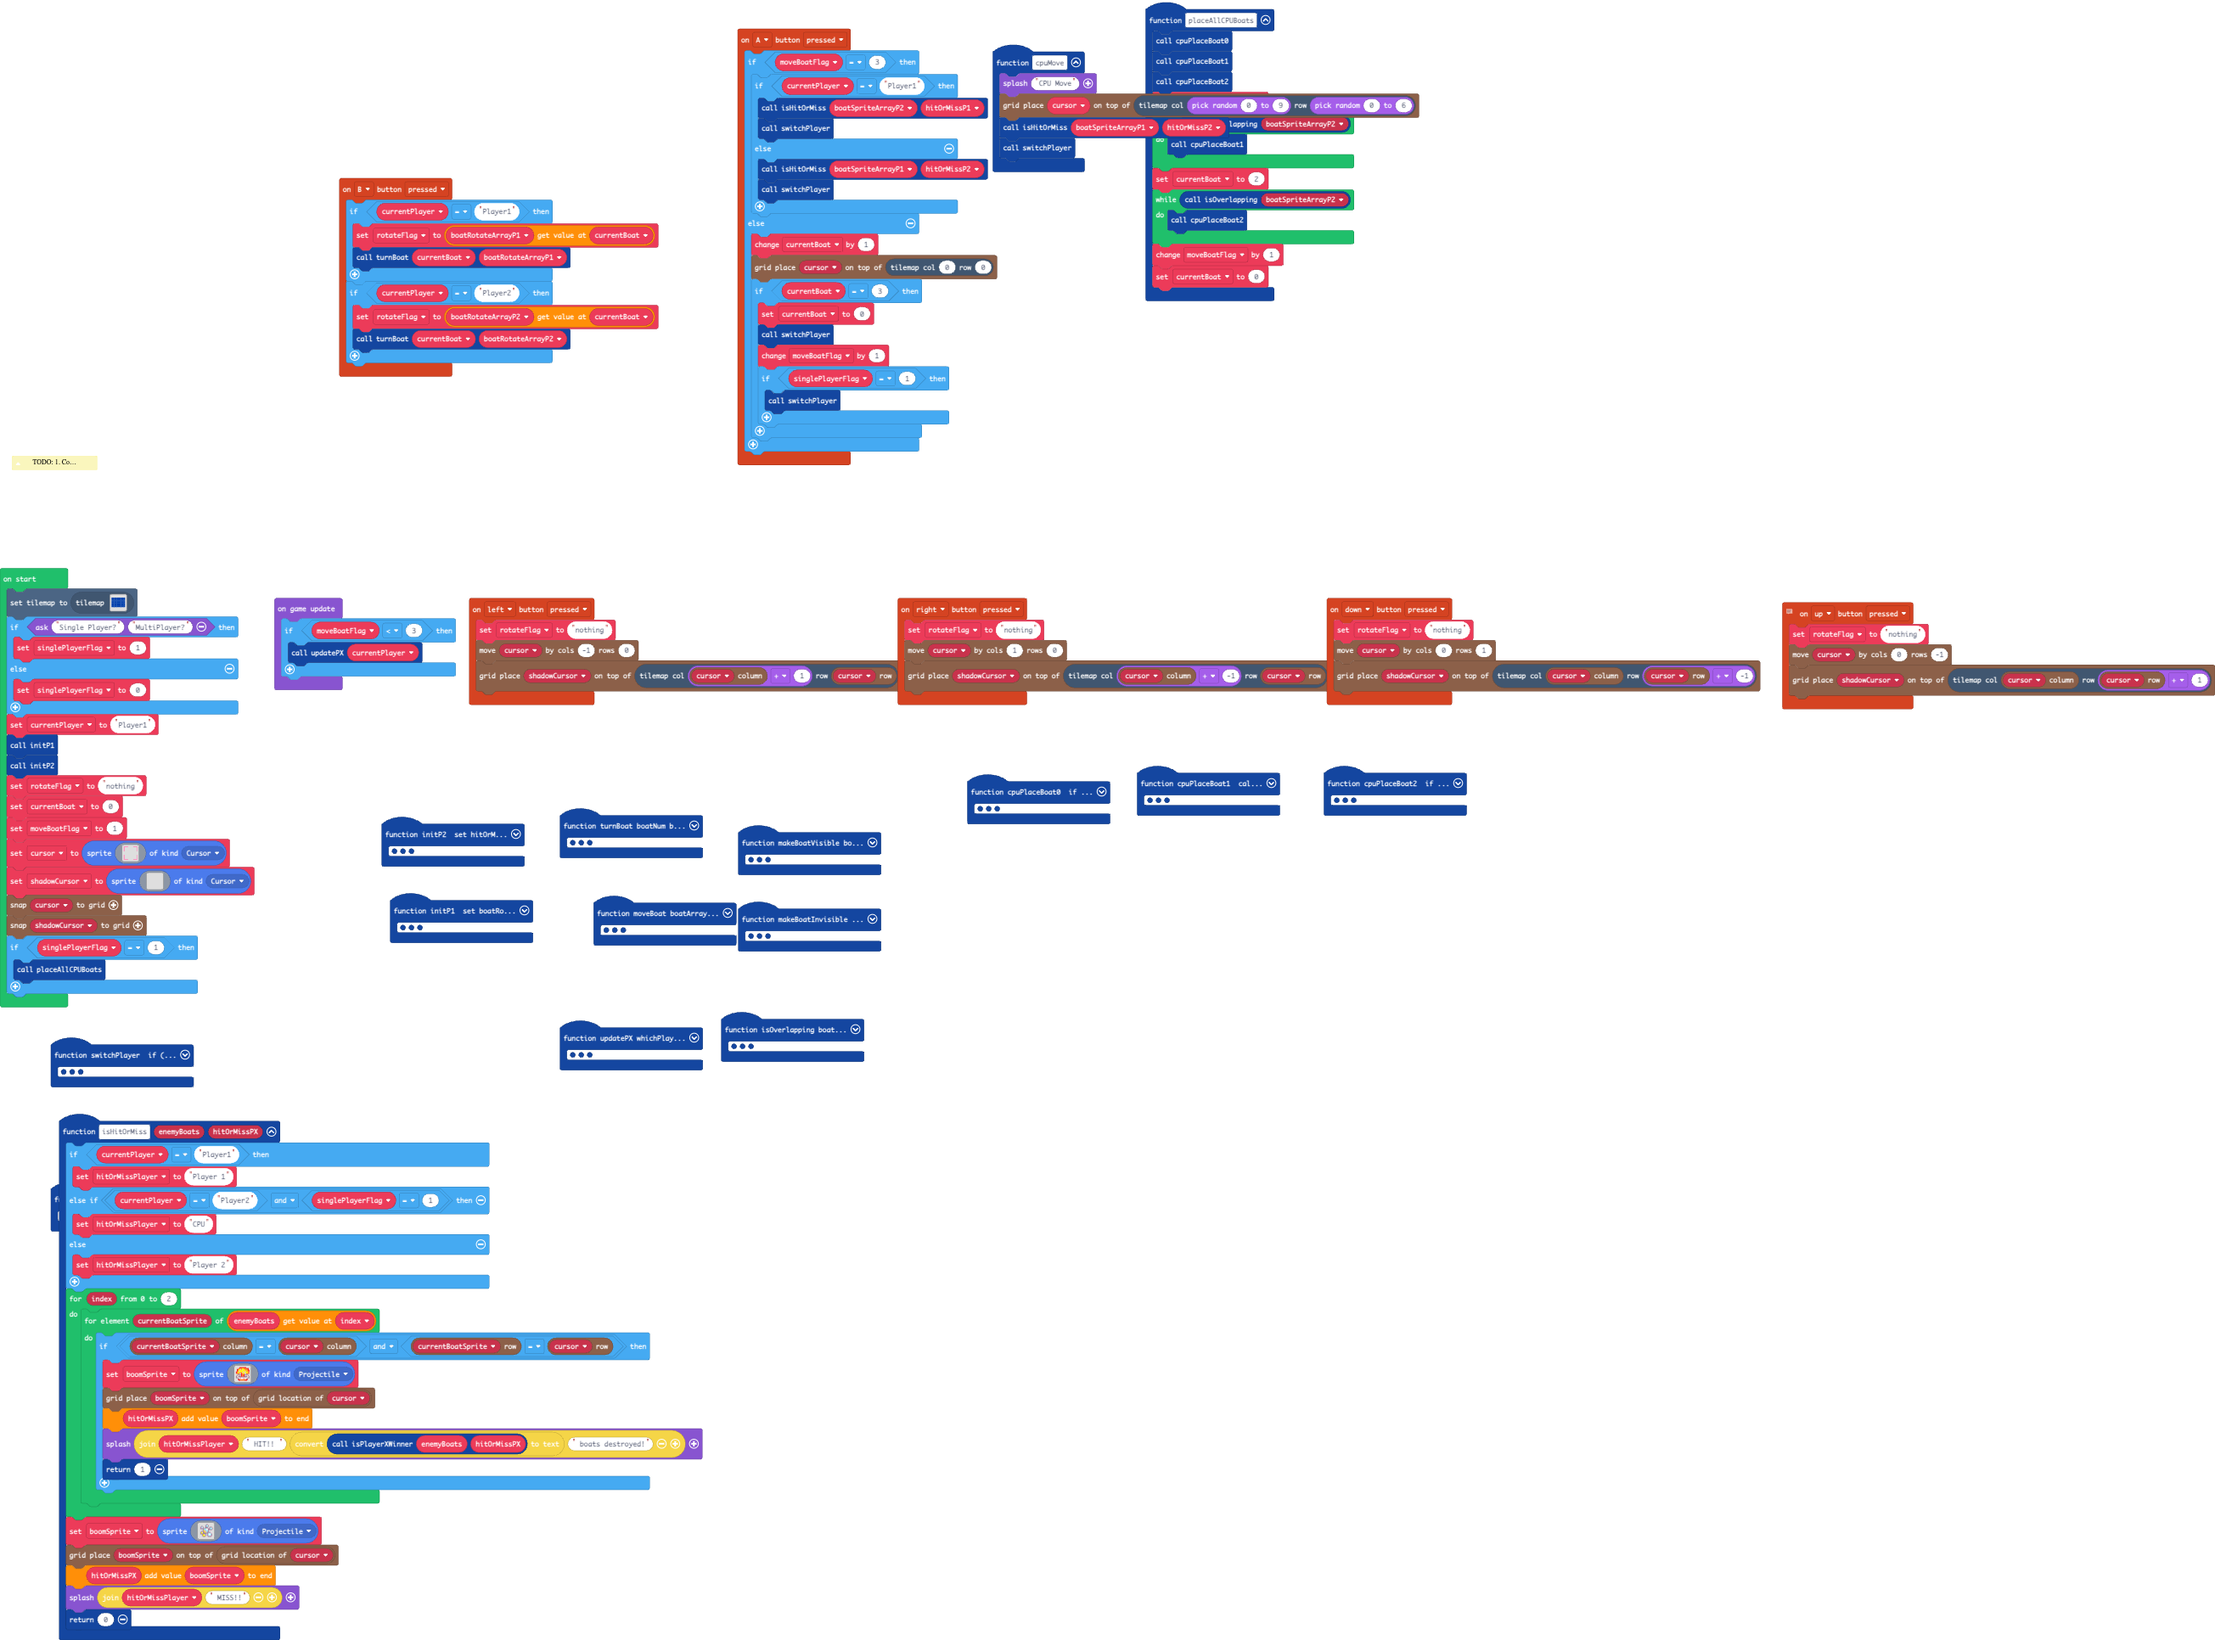
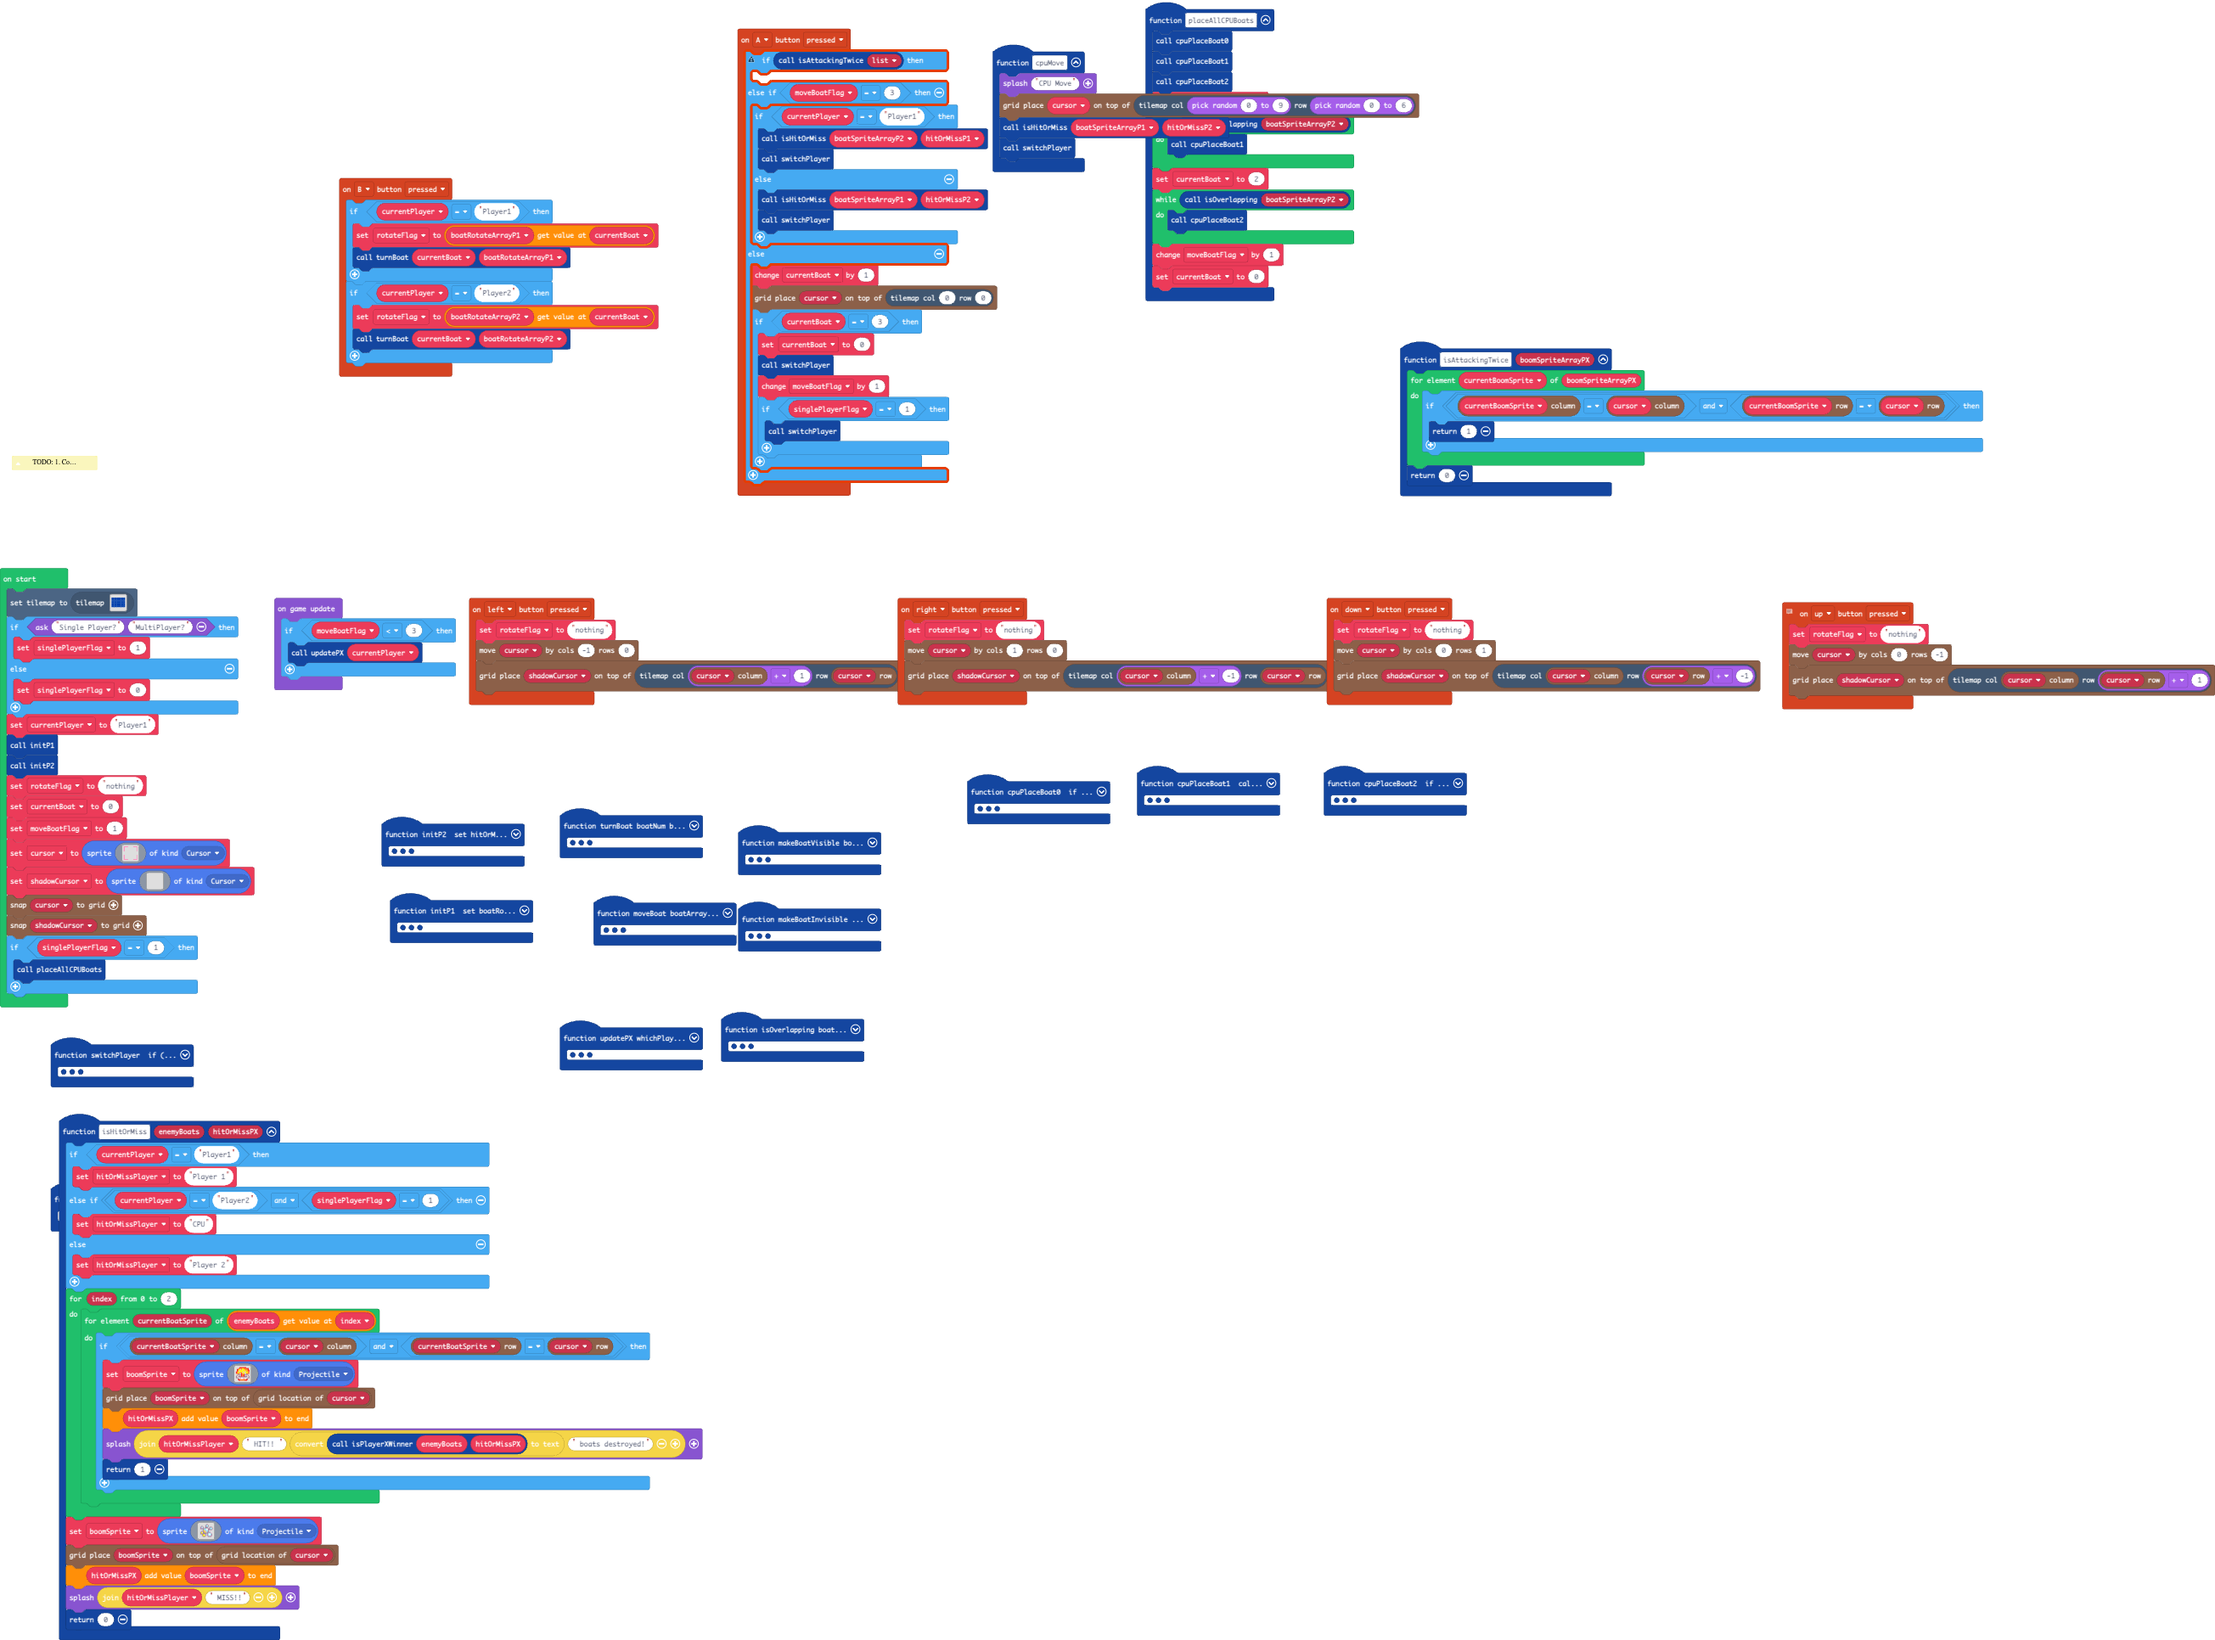
working on is attacking twice

Changed region(s): [[0.3105, 0.0311, 0.4657, 0.3106], [0.6209, 0.1863, 0.9003, 0.3106]]

diff --git a/main.ts b/main.ts
@@ -90,7 +90,10 @@ function isPlayerXWinner (enemyBoats: Sprite[][], hitOrMissPX: Sprite[]) {
     return killCount
 }
 controller.A.onEvent(ControllerButtonEvent.Pressed, function () {
-    if (moveBoatFlag == 3) {
+    let list: number[] = []
+    if (isAttackingTwice(list)) {
+    	
+    } else if (moveBoatFlag == 3) {
         if (currentPlayer == "Player1") {
             isHitOrMiss(boatSpriteArrayP2, hitOrMissP1)
             switchPlayer()
@@ -442,6 +445,14 @@ function cpuPlaceBoat1 () {
         grid.place(boatSpriteArrayP2[1][1], grid.add(grid.getLocation(cursor), 0, 1))
         grid.place(boatSpriteArrayP2[1][2], grid.add(grid.getLocation(cursor), 0, 2))
     }
+}
+function isAttackingTwice (boomSpriteArrayPX: Sprite[]) {
+    for (let currentBoomSprite of boomSpriteArrayPX) {
+        if (grid.spriteCol(currentBoomSprite) == grid.spriteCol(cursor) && grid.spriteRow(currentBoomSprite) == grid.spriteRow(cursor)) {
+            return 1
+        }
+    }
+    return 0
 }
 function initP2 () {
     hitOrMissP2 = [sprites.create(img`
